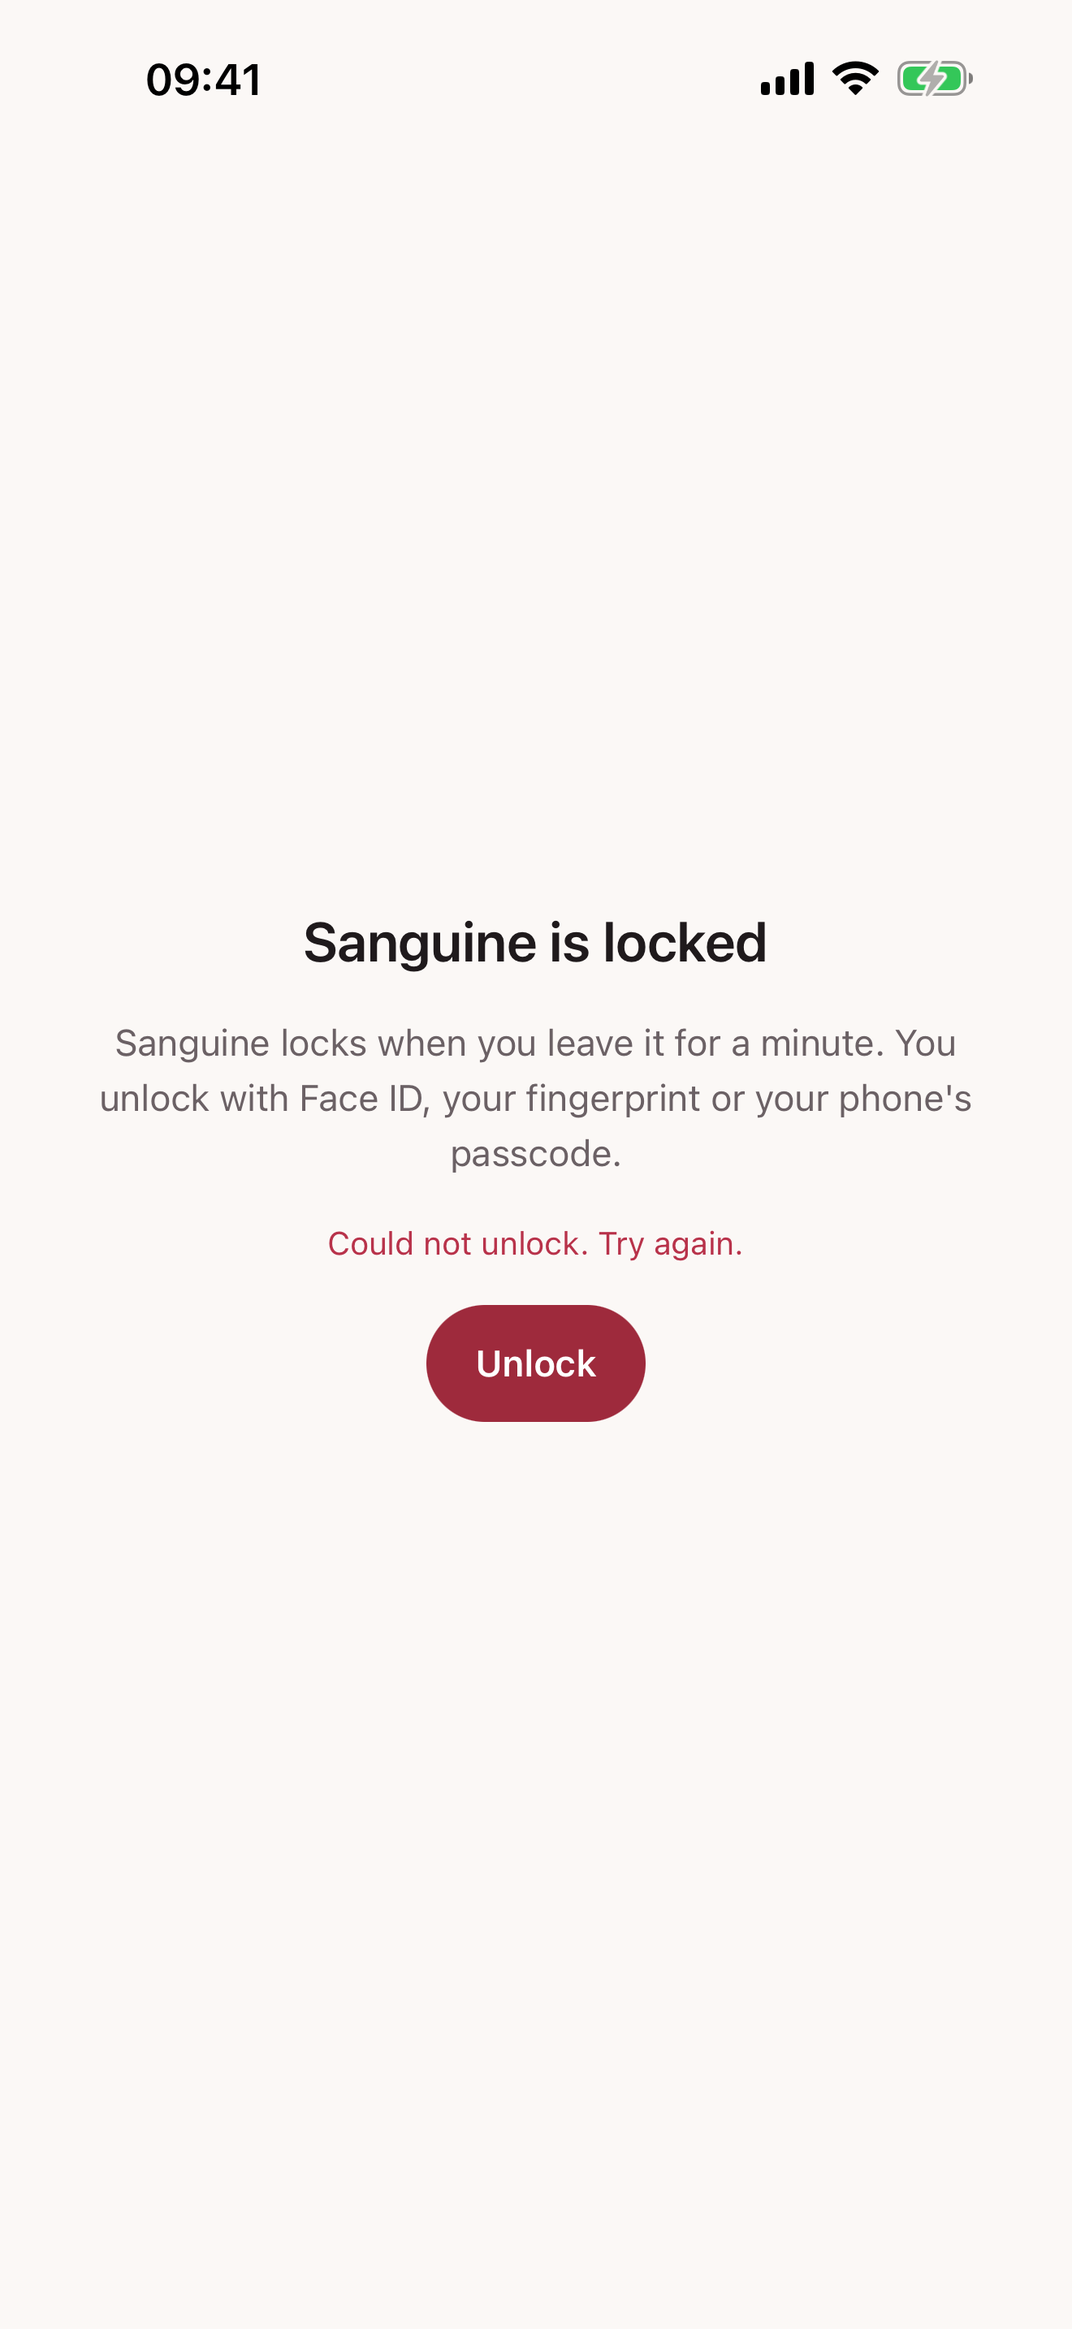
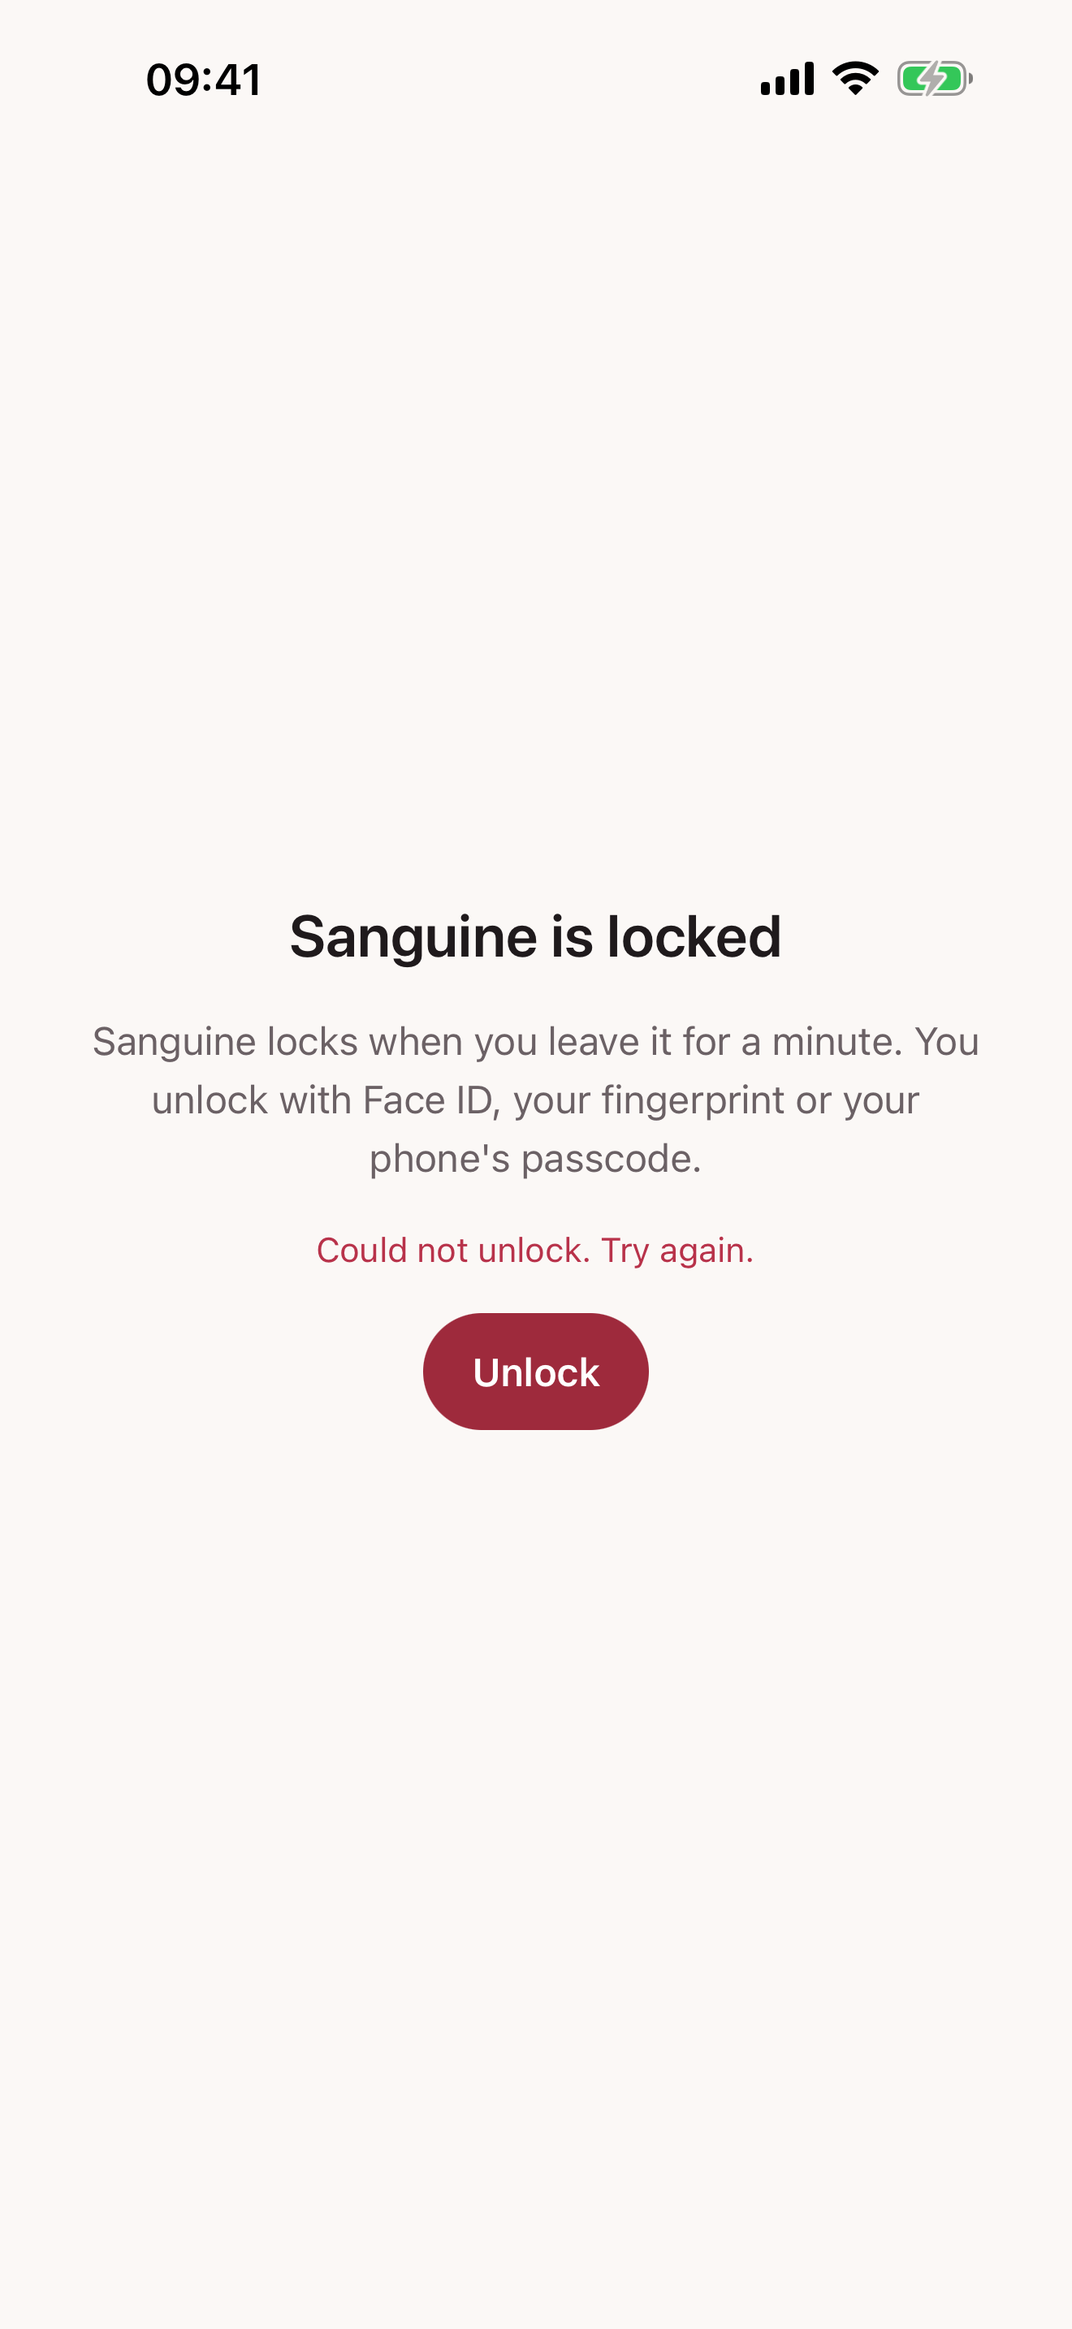
P2-13 lock fixes after security review; P2-14 a11y static checks and font-scale flow

Changed region(s): [[0.0932, 0.3724, 0.9008, 0.6206]]

diff --git a/apps/mobile/src/a11y.test.ts b/apps/mobile/src/a11y.test.ts
@@ -1,0 +1,70 @@
+// Static accessibility checks (PLAN.md §8.9): every interactive element is labelled and is a 44 pt+ target; no custom animation.
+import { readdirSync, readFileSync, statSync } from 'node:fs';
+import { join } from 'node:path';
+import { describe, expect, it } from 'vitest';
+
+function files(dir: string): string[] {
+  return readdirSync(dir).flatMap((f) => {
+    const p = join(dir, f);
+    return statSync(p).isDirectory() ? files(p) : p.endsWith('.tsx') && !p.endsWith('.test.tsx') ? [p] : [];
+  });
+}
+const SRC = files(__dirname);
+
+/** The text of a JSX opening tag starting at `from` (just after the tag name), up to its closing `>` or `/>`. */
+function tagBody(src: string, from: number): string {
+  let depth = 0;
+  let quote = '';
+  for (let i = from; i < src.length; i++) {
+    const c = src[i] as string;
+    if (quote) { if (c === quote && src[i - 1] !== '\\') quote = ''; continue; }
+    if (c === '"' || c === "'" || c === '`') { quote = c; continue; }
+    if (c === '{') depth++;
+    else if (c === '}') depth--;
+    else if (c === '>' && depth === 0 && src[i - 1] !== '=') return src.slice(from, i);
+  }
+  return src.slice(from);
+}
+function tags(src: string, name: string): string[] {
+  const out: string[] = [];
+  const re = new RegExp(`<${name}(?=[\\s>/])`, 'g');
+  for (let m = re.exec(src); m; m = re.exec(src)) out.push(tagBody(src, m.index + m[0].length));
+  return out;
+}
+
+const LABELLED = /accessibilityLabel|aria-label|\{\.\.\.rest\}|\{\.\.\.props\}/;
+describe('interactive elements are labelled', () => {
+  for (const name of ['Pressable', 'Switch', 'TextInput', 'TouchableOpacity']) {
+    it(`every <${name}> has an accessibility label`, () => {
+      const bad: string[] = [];
+      for (const f of SRC) for (const body of tags(readFileSync(f, 'utf8'), name)) if (!LABELLED.test(body)) bad.push(`${f.replace(__dirname, '')}: <${name}${body.slice(0, 80).replace(/\s+/g, ' ')}…`);
+      expect(bad).toEqual([]);
+    });
+  }
+  it('every Pressable declares a minimum target of 44 or more (minHeight, height or a sized child style)', () => {
+    const bad: string[] = [];
+    for (const f of SRC) for (const body of tags(readFileSync(f, 'utf8'), 'Pressable')) {
+      const sizes = [...body.matchAll(/(?:minHeight|height|minWidth):\s*(\d+)/g)].map((m) => Number(m[1]));
+      if (!sizes.some((n) => n >= 44) && !/\{\.\.\.rest\}/.test(body)) bad.push(`${f.replace(__dirname, '')}: <Pressable${body.slice(0, 90).replace(/\s+/g, ' ')}…`);
+    }
+    expect(bad).toEqual([]);
+  });
+  it('every route screen has a testable root', () => {
+    const missing = SRC.filter((f) => /\/app\/.*\.tsx$/.test(f) && !/_layout|index\.tsx|seed\.tsx/.test(f)).filter((f) => !/testID=|SubScreen|LogSheet|OnboardingFlow/.test(readFileSync(f, 'utf8')));
+    expect(missing.map((f) => f.replace(__dirname, ''))).toEqual([]);
+  });
+});
+
+describe('motion (§8.9: reduced motion degrades to cross-fades; the ring never animates)', () => {
+  it('the app has no custom animation: no Animated, reanimated or LayoutAnimation in screens or components', () => {
+    const hits = SRC.filter((f) => /react-native-reanimated|LayoutAnimation|Animated\.|from 'react-native'.*\bAnimated\b/.test(readFileSync(f, 'utf8')));
+    expect(hits.map((f) => f.replace(__dirname, ''))).toEqual([]);
+  });
+});
+
+describe('meaning is never colour alone', () => {
+  it('the calendar cell draws period (solid + dots), predicted (hatch) and fertile (underline) as shapes and labels them in words', () => {
+    const cell = readFileSync(join(__dirname, 'features/calendar/DayCellView.tsx'), 'utf8');
+    for (const shape of ['Pattern', 'backgroundColor: on ? t.c.period', 'height: 4', 'accessibilityLabel={cell.label}']) expect(cell).toContain(shape);
+  });
+});

diff --git a/apps/mobile/src/features/lock/LockGate.tsx b/apps/mobile/src/features/lock/LockGate.tsx
@@ -1,21 +1,22 @@
 // Covers the app with the lock screen and hides content in the app switcher (PLAN.md §8.8).
-import { type ReactNode, useEffect, useRef, useState } from 'react';
+import { type ReactNode, useEffect, useMemo, useState } from 'react';
 import { useTranslation } from 'react-i18next';
 import { AppState, View } from 'react-native';
 import { useApp } from '@/state/app';
 import { useLock } from '@/state/lock';
 import { useTheme } from '@/theme';
+import { createTracker } from './appStateTracker';
 import { Button } from '@/ui/Button';
 import { Text } from '@/ui/Text';
 
 export function LockGate({ children }: { children: ReactNode }) {
   const t = useTheme();
   const { t: tr } = useTranslation();
-  const { locked, failed, evaluate, noteBackground, tryUnlock } = useLock();
+  const { locked, decided, failed, evaluate, noteBackground, tryUnlock } = useLock();
   const ready = useApp((s) => s.status === 'ready' && s.onboarded);
   const appLock = useApp((s) => s.prefs.appLock);
   const [hidden, setHidden] = useState(false); // app switcher snapshot cover
-  const last = useRef(AppState.currentState);
+  const track = useMemo(createTracker, []);
 
   useEffect(() => { if (ready) void evaluate(appLock, tr('lock.reason')); }, [ready, appLock, evaluate, tr]);
   useEffect(() => {
@@ -23,12 +24,13 @@ export function LockGate({ children }: { children: ReactNode }) {
       setHidden(s !== 'active');
       if (s === 'background') noteBackground();
       // only a return from the background re-checks the lock: the system Face ID sheet and the app switcher only pass through 'inactive'
-      if (s === 'active' && last.current === 'background' && ready) void evaluate(appLock, tr('lock.reason'));
-      last.current = s;
+      if (track(s) === 'evaluate' && ready) void evaluate(appLock, tr('lock.reason'));
     });
     return () => sub.remove();
-  }, [ready, appLock, evaluate, noteBackground, tr]);
+  }, [ready, appLock, evaluate, noteBackground, track, tr]);
 
+  // until the first lock decision is made the content stays covered: the check is asynchronous and must not show a frame of data first
+  const undecided = ready && appLock && !decided;
   return (
     <View style={{ flex: 1 }}>
       {children}
@@ -40,6 +42,7 @@ export function LockGate({ children }: { children: ReactNode }) {
           <Button testID="unlock-button" label={tr('lock.unlock')} onPress={() => void tryUnlock(tr('lock.reason'))} />
         </View>
       ) : null}
+      {undecided && !locked ? <View pointerEvents="none" testID="lock-pending" style={{ position: 'absolute', top: 0, left: 0, right: 0, bottom: 0, backgroundColor: t.screenBg }} /> : null}
       {hidden && !locked ? <View pointerEvents="none" testID="privacy-cover" style={{ position: 'absolute', top: 0, left: 0, right: 0, bottom: 0, backgroundColor: t.screenBg }} /> : null}
     </View>
   );

diff --git a/apps/mobile/src/state/lock.ts b/apps/mobile/src/state/lock.ts
@@ -5,6 +5,8 @@ import { authenticate, deviceHasLock } from '@/services/lockAuth';
 
 interface LockState {
   locked: boolean;
+  /** False until the first lock decision after start. */
+  decided: boolean;
   available: boolean | undefined;
   unlockedThisSession: boolean;
   backgroundedAt: number | undefined;
@@ -17,14 +19,15 @@ interface LockState {
 }
 
 export const useLock = create<LockState>((set, get) => ({
-  locked: false, available: undefined, unlockedThisSession: false, backgroundedAt: undefined, failed: false, prompting: false,
+  locked: false, decided: false, available: undefined, unlockedThisSession: false, backgroundedAt: undefined, failed: false, prompting: false,
 
   async evaluate(appLock, reason) {
+    // once the phone's capability is known the decision below is synchronous, so a return from the background covers the app at once
     const available = get().available ?? (await deviceHasLock());
     set({ available });
     const lock = shouldLock({ appLock, available, unlockedThisSession: get().unlockedThisSession, backgroundedAt: get().backgroundedAt, now: Date.now() });
-    if (!lock) { set({ locked: false }); return; }
-    set({ locked: true });
+    if (!lock) { set({ locked: false, decided: true }); return; }
+    set({ locked: true, decided: true });
     await get().tryUnlock(reason);
   },
 

diff --git a/apps/mobile/src/features/lock/appStateTracker.test.ts b/apps/mobile/src/features/lock/appStateTracker.test.ts
@@ -1,0 +1,12 @@
+import { describe, expect, it } from 'vitest';
+import { type AppStateName, createTracker } from './appStateTracker';
+
+const run = (seq: AppStateName[]) => { const t = createTracker(); return seq.map((s) => t(s)); };
+
+describe('createTracker', () => {
+  it('Android: background then active re-checks the lock', () => expect(run(['background', 'active'])).toEqual(['cover', 'evaluate']));
+  it('iOS: background, inactive, active still re-checks the lock (the case a "previous state" check misses)', () =>
+    expect(run(['inactive', 'background', 'inactive', 'active'])).toEqual(['cover', 'cover', 'cover', 'evaluate']));
+  it('the Face ID sheet or app switcher only passes through inactive: no re-prompt loop', () => expect(run(['inactive', 'active'])).toEqual(['cover', 'none']));
+  it('re-checks once per trip, not on every active', () => expect(run(['background', 'active', 'inactive', 'active'])).toEqual(['cover', 'evaluate', 'cover', 'none']));
+});

diff --git a/apps/mobile/src/ui/Segmented.tsx b/apps/mobile/src/ui/Segmented.tsx
@@ -12,7 +12,7 @@ export function Segmented<T extends string>({ options, value, onChange, testIDPr
         return (
           <Pressable
             key={o.value} testID={testIDPrefix ? `${testIDPrefix}-${o.value}` : undefined} accessibilityRole="radio" accessibilityLabel={o.label} aria-checked={on} onPress={() => onChange(o.value)}
-            style={{ flex: 1, minHeight: 40, alignItems: 'center', justifyContent: 'center', borderRadius: t.isIOS ? 8 : 999, backgroundColor: on ? (t.isIOS ? t.cardBg : t.c.accentSoft) : 'transparent' }}>
+            style={{ flex: 1, minHeight: 44, alignItems: 'center', justifyContent: 'center', borderRadius: t.isIOS ? 8 : 999, backgroundColor: on ? (t.isIOS ? t.cardBg : t.c.accentSoft) : 'transparent' }}>
             <Text variant="bodySmall" color={on ? 'accent' : 'textPrimary'} style={{ fontWeight: on ? '600' : '400' }}>{o.label}</Text>
           </Pressable>
         );

diff --git a/apps/mobile/src/features/lock/appStateTracker.ts b/apps/mobile/src/features/lock/appStateTracker.ts
@@ -1,0 +1,16 @@
+// Decides when a change of AppState must re-check the lock. iOS reports a return from the background as
+// background -> inactive -> active, so "was the app in the background since the last active?" is remembered, not the previous state.
+export type AppStateName = 'active' | 'inactive' | 'background' | 'unknown' | 'extension';
+
+export function createTracker(): (next: AppStateName) => 'evaluate' | 'cover' | 'none' {
+  let sawBackground = false;
+  return (next) => {
+    if (next === 'background') { sawBackground = true; return 'cover'; }
+    if (next === 'active') {
+      const re = sawBackground;
+      sawBackground = false;
+      return re ? 'evaluate' : 'none';
+    }
+    return 'cover'; // inactive (Face ID sheet, app switcher, control centre): hide content, do not prompt
+  };
+}

diff --git a/apps/mobile/src/ui/SettingsRow.tsx b/apps/mobile/src/ui/SettingsRow.tsx
@@ -29,7 +29,7 @@ export function SettingsRow({ title, description, right, onPress, testID, destru
     </View>
   );
   return onPress ? (
-    <Pressable testID={testID} accessibilityRole="button" accessibilityLabel={description ? `${title}. ${description}` : title} aria-disabled={disabled} disabled={disabled} onPress={onPress}>{body}</Pressable>
+    <Pressable testID={testID} accessibilityRole="button" accessibilityLabel={description ? `${title}. ${description}` : title} aria-disabled={disabled} disabled={disabled} onPress={onPress} style={{ minHeight: 56 }}>{body}</Pressable>
   ) : (
     <View testID={testID}>{body}</View>
   );

diff --git a/apps/mobile/src/services/lockAuth.ts b/apps/mobile/src/services/lockAuth.ts
@@ -5,7 +5,8 @@ export async function deviceHasLock(): Promise<boolean> {
   try {
     return (await LocalAuthentication.getEnrolledLevelAsync()) !== LocalAuthentication.SecurityLevel.NONE;
   } catch {
-    return false;
+    // fail closed: if the capability cannot be read, assume a lock exists so the app stays covered rather than opening unlocked
+    return true;
   }
 }
 

diff --git a/docs/DECISIONS.md b/docs/DECISIONS.md
@@ -99,3 +99,4 @@ Status: open = not yet checked, carried by the owning backlog item; applied = co
 - D-035 (2026-10-09) Settings (P2-12). (1) Seven rows: Life state, Health sync (a "later update" page: it needs native modules), Privacy and data, Notifications and widgets, Appearance, Tracking options, About. (2) Changing life state ends every open state (`life_state.end`) and sets the new one on the chosen day; history is listed; the page says what the state does to estimates (paused, warm-up, wider ranges). (3) Privacy: export (zip via the share sheet), import (zip or period-start CSV), encrypted backup (passphrase ≥ 8 characters; the recovery code card appears once, before the file is offered), app lock switch (wired in P2-13), a disabled discreet-icon switch ("later update", P3-6), and Delete everything. (4) Delete everything drops every table and trigger (children first, the append-only triggers forbid `DELETE` on `event`), re-migrates, deletes the backup device secret and the note key from Secure Store, resets preferences and returns to onboarding; its confirm button reads "Delete all my data" so it cannot be confused with the row behind the alert. (5) Tracking options: the 24 symptoms as switches (catalogue order), °C/°F, usual temperature source, sexual-activity logging (off by default) and the ovulation-estimate switch (in teen mode it is the explicit unlock, with the explanatory text). (6) About: wordmark band in the brand wine (the only in-app use, §9.9), app version, estimate-engine version and the first 12 hex digits of the engine build hash, the fixed disclaimer, how to read estimates, the glossary, sources (§3.2, with the guideline named without any condition: "International evidence-based guideline 2023") and licences, all from `copy/about.en-AU.json`. (7) iOS keychain items survive an app-data reset, so tests that need a first-run backup use `/dev/seed?...&resetSecrets=1`. (8) Sub-pages have a fixed Back button above the scroll area.
 - D-036 (2026-10-09) Findings from the automated commit security review of P2-12, all accepted and fixed. (1) Passphrase and recovery-code fields were plain text with autocorrect on: they are now masked (`secure`: no suggestions, no autocomplete, no autocorrect learning) and the typed values are cleared from state when the operation ends. (2) "Delete everything" dropped the tables but deleted content could remain in freed pages and in the write-ahead log: it now sets `secure_delete`, drops, checkpoints the log (`TRUNCATE`), and `VACUUM`s before re-migrating. (3) Exported zips, backups and files copied by the document picker stayed in the cache after use and after "Delete everything": each is now removed as soon as the share sheet or import finishes (`services/tempFiles.ts`), and "Delete everything" sweeps any left over. Screenshot protection of the recovery code screen needs a native flag and stays in P3-6.
 - D-037 (2026-10-09) App lock and reminders (P2-13). (1) Lock: on when the setting is on (default) AND the phone has Face ID, a fingerprint or a passcode/PIN (`getEnrolledLevelAsync`); otherwise it cannot work and stays off, and the switch refuses to turn on with "Turn on a screen lock on this phone first". It locks on first open and after 60 s in the background (`LOCK_AFTER_MS`, pure `shouldLock`); the system sheet falls back to the device passcode. A user cancelling the Face ID sheet does not re-prompt (only a return from the background does); the lock screen shows "Could not unlock. Try again." and an Unlock button. In the app switcher an opaque cover hides the content. (2) The note key is only released while unlocked (`getNoteKey` throws when locked). (3) Verified on the iOS simulator by enrolling Face ID (`notifyutil`) and sending matching and non-matching faces (`apps/mobile/.maestro/lock-ios.sh`). Not verified on Android: the Expo Go emulator cannot be driven through the device-credential prompt without locking the emulator itself; left for the dev client (P3-1). (4) Reminders: one local notification at 09:00 the day before the 80% range begins, replaced on every prediction change (`planReminder`, tested); default text "Sanguine: a reminder", descriptive text only when the user turns details on; nothing while estimates are paused; the page shows "Next reminder: 23 Oct". No push token is requested. (5) Gap, moved to Phase 3 as P3-1b: `expo-notifications` throws on import in Expo Go on Android (SDK 53+), so there `remindersSupported` is false, the switch is disabled with "Reminders on Android arrive in a later update", and the module is only `require`d lazily where supported. Rejected: leaving the import at module level (the Android app crashed at start).
+- D-038 (2026-10-09) Findings from the automated commit security review of P2-13, all accepted and fixed. (1) Auth bypass: my "only a return from the background re-checks the lock" change compared the previous AppState, but iOS reports a return as background → inactive → active, so the lock would never re-engage. The tracker now remembers that the app was in the background since the last `active` (`appStateTracker.ts`, tested on both platform sequences); verified on the simulator by leaving the app for 66 s and seeing the Face ID sheet return. (2) Fail-open at start: content could show for a frame or more before the asynchronous first lock check finished. The app now stays covered until the first decision is made (`decided`), and later decisions are synchronous once the phone's capability is known. (3) Fail-open on error: if the lock capability cannot be read (`getEnrolledLevelAsync` throws) the app now assumes a lock exists and stays covered instead of opening. A phone that truly has no screen lock still runs without the app lock, as documented in D-037.

diff --git a/docs/PROGRESS.md b/docs/PROGRESS.md
@@ -44,3 +44,4 @@ One line per finished backlog item.
 - P2-12 Settings: life state, privacy and data (export/import/backup/delete), notifications UI, appearance, tracking options, about with engine hash, health placeholder; Maestro green on iOS and Android (D-034, D-035).
 - P2-12 follow-up: fixed three security-review findings (masked passphrase fields, secure wipe, cache file cleanup) (D-036).
 - P2-13 app lock (Face ID / passcode, 60 s auto-lock, switcher cover, note key gating) verified on iOS with simulated faces; local reminders scheduled from the prediction (iOS; Android moved to P3-1b) (D-037).
+- P2-13 follow-up: security-review fixes for the app lock (iOS background→inactive→active, cover until first decision, fail closed); re-lock after 66 s verified on iOS (D-038).
